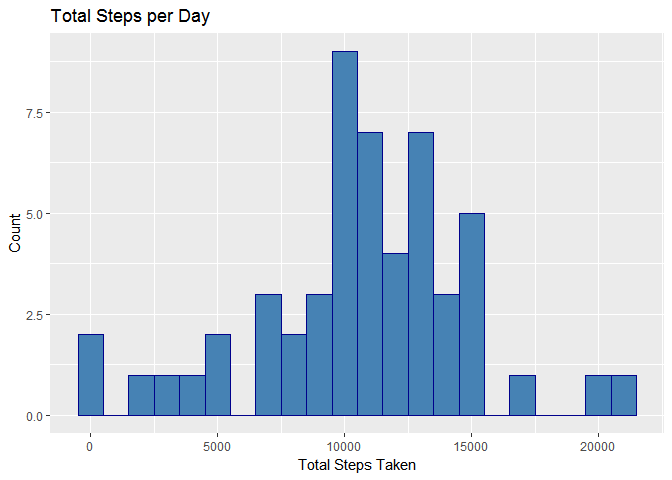
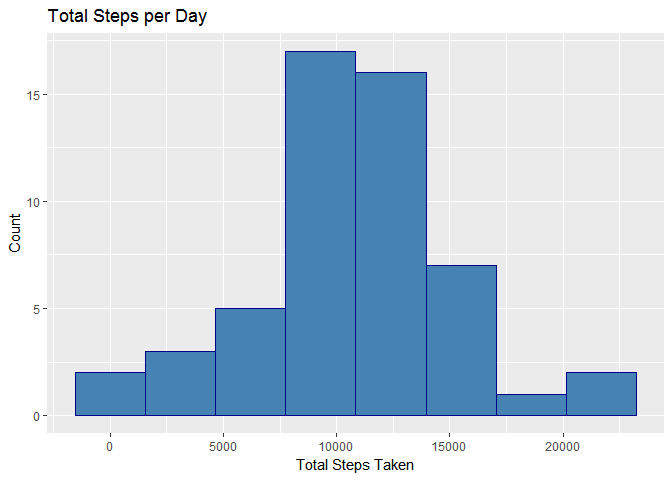
Update to Histograms and printing function
Changed the number of bins and bin size of histograms, using a different
method which calculates it based on the range of values.
Created a printTable function in order to centralize most of the
functionality.

diff --git a/PA1_template.html b/PA1_template.html
@@ -127,7 +127,7 @@ $(document).ready(function () {
 
 <div id="purpose" class="section level2">
 <h2>Purpose</h2>
-<p>To create a literate program that will document the method used for data processing, analysis and visualization, provided in a form through which the research can be easily understood and reproduced.</p>
+<p>To create a literate program that will document the methods used for data processing, analysis and visualization, provided in a form through which the research can be easily understood and reproduced.</p>
 </div>
 <div id="prepare-environment" class="section level2">
 <h2>Prepare environment</h2>
@@ -156,7 +156,7 @@ total_steps_per_day &lt;- activity_data_no_NA %&gt;%
     group_by(date) %&gt;%
     summarise(totalSteps = sum(steps))</code></pre>
 <!-- html table generated in R 3.3.2 by xtable 1.8-2 package -->
-<!-- Mon Feb 13 02:48:00 2017 -->
+<!-- Mon Feb 13 22:55:16 2017 -->
 <table border="1">
 <tr>
 <th>
@@ -279,15 +279,19 @@ totalSteps
 </td>
 </tr>
 </table>
-<p>Now to plot the histogram of the <strong>Total Steps per Day (totalSteps)</strong> to visualize the distribution.</p>
-<pre class="r"><code>plot_histogram_total_steps_per_day &lt;- ggplot(data = total_steps_per_day, aes(x = totalSteps)) +
-    geom_histogram(stat = &quot;bin&quot;, bins = 25, binwidth = 1000, color = &quot;darkblue&quot;, fill = &quot;steelblue&quot;) +
+<p>Now to plot the histogram of the <strong>Total Steps per Day (totalSteps)</strong> to visualize the distribution. To determine the number of bins which may be optimal for analysis, I’ve used the square root of the range of the variable, applying the ceiling method of rounding in order to get a whole number that is larger than the variable’s max value. The bin-size may have required a custom function or locating an existing package, however since we only had one Histogram I chose to divide the max value by the number of bins previously calculated and the result was rounded up to the next hundred, resulting in a bin width = 3,100.</p>
+<pre class="r"><code>numBins &lt;- 1 + ceiling(sqrt(range(total_steps_per_day$totalSteps)))
+binSize &lt;- 3100
+
+plot_histogram_total_steps_per_day &lt;- ggplot(data = total_steps_per_day, aes(x = totalSteps)) +
+    geom_histogram(stat = &quot;bin&quot;, bins = numBins, binwidth = binSize, color = &quot;darkblue&quot;, fill = &quot;steelblue&quot;) +
     labs(title = &quot;Total Steps per Day&quot;, x = &quot;Total Steps Taken&quot;, y = &quot;Count&quot;) +
     ggsave(filename = &quot;figures/histogram_total_steps_per_day.png&quot;, width = 5, height = 3)
 
 plot_histogram_total_steps_per_day</code></pre>
[1 lines of base64/hex data omitted]
-<p>To check the data for outliers which may cause skewing we need to calculate the Mean and Median values. First, calculate the <strong>Mean</strong> value of <strong>totalSteps</strong>.</p>
[1 lines of base64/hex data omitted]
+<p>Although we can visually identify that the bins with the largest number of values are in the center of the graph, those 2 bins can account for up to 6,200 values so it is highly unlikely that we can guess the exact value at the center of the distribution. We can, however, determine the central value by calculating the measures of central tendency. The Mean and Median values are measures of central tendency and comparing the two would allow us to gauge the strength or weakness of the central tendency for this distribution. This being the latter case, the comparison of Mean and Median values would provide us with the size and direction of skew. As the skew increases, so does variablity in the data set and the chance of finding a valid center, preventing it from being a symmetrical distribution.</p>
+<p>First, calculate the <strong>Mean</strong> value of <strong>totalSteps</strong>.</p>
 <pre class="r"><code>meanTotalSteps &lt;- mean(total_steps_per_day$totalSteps)
 print(paste(&quot;Mean total steps per day:&quot;, meanTotalSteps))</code></pre>
 <pre><code>## [1] &quot;Mean total steps per day: 10766.1886792453&quot;</code></pre>
@@ -296,11 +300,11 @@ print(paste(&quot;Mean total steps per day:&quot;, meanTotalSteps))</code></pre>
 midTotalSteps &lt;- median(total_steps_per_day$totalSteps)
 print(paste(&quot;Median total steps per day:&quot;, midTotalSteps))</code></pre>
 <pre><code>## [1] &quot;Median total steps per day: 10765&quot;</code></pre>
-<p><em>There is a very slight difference between the Mean and Median which represents a bit of a skew.</em></p>
+<p><em>There is a very slight difference between the Mean and Median which represents a slight skew.</em></p>
 </div>
 <div id="question-2-what-is-the-average-daily-activity-pattern" class="section level2">
 <h2>Question 2: What is the average daily activity pattern?</h2>
-<p>Make a data.frame for mean steps taken per interval across all days</p>
+<p>Create a subset from the original dataset, minus the incomplete observations, and group the subset by interval, calculating the average of the number of steps in each interval. The result is a dataset with interval and meanSteps, across all date values. Date is not a grouping in this set, it is ignored in order to focus on the relationship of the interval and average of the number of steps.</p>
 <pre class="r"><code>mean_steps_per_interval_all_days &lt;- activity_data_no_NA %&gt;%
     select(interval, steps) %&gt;%
     group_by(interval) %&gt;%
@@ -348,7 +352,7 @@ kable(summary(mean_steps_per_interval_all_days), caption = &quot;total_steps_per
 </tr>
 </tbody>
 </table>
-<p>Plot meanSteps by interval in time series plot</p>
+<p>Create the timeseries plot using the interval as the x value and the meanSteps as the continuous y value.</p>
 <pre class="r"><code>plot_time_series_mean_steps_per_interval &lt;- ggplot(data = mean_steps_per_interval_all_days, aes(interval, meanSteps)) +
     geom_step(color = 'blue', lwd = 0.25) +
     scale_x_continuous(breaks = c(seq(0,2500,250)),minor_breaks = c(seq(0,2500,50))) +
@@ -394,13 +398,16 @@ print(paste(&quot;Number of Observations missing data:&quot;, count(missing_acti
     group_by(date) %&gt;%
     summarise(totalSteps = sum(steps))</code></pre>
 <p>Plot histogram of steps per day.</p>
-<pre class="r"><code>plot_histogram_revised_total_steps_per_day &lt;- ggplot(data = revised_total_steps_per_day, aes(totalSteps)) +
-    geom_histogram(stat = &quot;bin&quot;, bins = 25, binwidth = 1000, color = &quot;darkred&quot;, fill = &quot;red&quot;) +
+<pre class="r"><code>numBins &lt;- 1 + ceiling(sqrt(range(revised_total_steps_per_day$totalSteps)))
+binSize &lt;- 3100
+
+plot_histogram_revised_total_steps_per_day &lt;- ggplot(data = revised_total_steps_per_day, aes(totalSteps)) +
+    geom_histogram(stat = &quot;bin&quot;, bins = numBins, binwidth = binSize, color = &quot;darkred&quot;, fill = &quot;red&quot;) +
     labs(title = &quot;Revised Total Steps per Day&quot;, x = &quot;Total Steps Taken&quot;, y = &quot;Count&quot;) +
     ggsave(filename = &quot;figures/histogram_revised_total_steps_per_day.png&quot;, width = 5, height = 3)
 
 plot_histogram_revised_total_steps_per_day</code></pre>
[2 lines of base64/hex data omitted]
 <p>calculate the mean value of total steps</p>
 <pre class="r"><code>revisedMeanTotalSteps &lt;- mean(revised_total_steps_per_day$totalSteps)
 print(paste(&quot;Revised Mean total steps per day:&quot;, revisedMeanTotalSteps))</code></pre>

diff --git a/PA1_template.md b/PA1_template.md
@@ -5,7 +5,7 @@ Ray Lugo, Jr.
 
 ##Purpose
 
-To create a literate program that will document the method used for data processing, analysis and visualization, provided in a form through which the research can be easily understood and reproduced.
+To create a literate program that will document the methods used for data processing, analysis and visualization, provided in a form through which the research can be easily understood and reproduced.
 
 ##Prepare environment
 ###Load libraries.
@@ -18,6 +18,8 @@ library(lattice)
 library(knitr)
 library(xtable)
 ```
+
+
 
 ###Load data.
 The data was loaded directly from ZIP archive using Readr's read_csv function.  This simplified data loading and saves disk space by eliminating the need to extract the data file.
@@ -42,7 +44,7 @@ total_steps_per_day <- activity_data_no_NA %>%
 ```
 
 <!-- html table generated in R 3.3.2 by xtable 1.8-2 package -->
-<!-- Mon Feb 13 02:48:00 2017 -->
+<!-- Mon Feb 13 22:55:16 2017 -->
 <table border=1>
 <tr> <th>  </th> <th> date </th> <th> totalSteps </th>  </tr>
   <tr> <td align="right"> 1 </td> <td> 2012-10-02 </td> <td align="right"> 126 </td> </tr>
@@ -57,21 +59,28 @@ total_steps_per_day <- activity_data_no_NA %>%
   <tr> <td align="right"> 10 </td> <td> 2012-10-12 </td> <td align="right"> 17382 </td> </tr>
    </table>
 
-Now to plot the histogram of the **Total Steps per Day (totalSteps)** to visualize the distribution.
+
+
+Now to plot the histogram of the **Total Steps per Day (totalSteps)** to visualize the distribution.  To determine the number of bins which may be optimal for analysis, I've used the square root of the range of the variable, applying the ceiling method of rounding in order to get a whole number that is larger than the variable's max value.
+The bin-size may have required a custom function or locating an existing package, however since we only had one Histogram I chose to divide the max value by the number of bins previously calculated and the result was rounded up to the next hundred, resulting in a bin width = 3,100.
 
 
 ```r
+numBins <- 1 + ceiling(sqrt(range(total_steps_per_day$totalSteps)))
+binSize <- 3100
+
 plot_histogram_total_steps_per_day <- ggplot(data = total_steps_per_day, aes(x = totalSteps)) +
-    geom_histogram(stat = "bin", bins = 25, binwidth = 1000, color = "darkblue", fill = "steelblue") +
+    geom_histogram(stat = "bin", bins = numBins, binwidth = binSize, color = "darkblue", fill = "steelblue") +
     labs(title = "Total Steps per Day", x = "Total Steps Taken", y = "Count") +
     ggsave(filename = "figures/histogram_total_steps_per_day.png", width = 5, height = 3)
 
 plot_histogram_total_steps_per_day
 ```
 
-![](PA1_template_files/figure-html/unnamed-chunk-5-1.png)<!-- -->
+![](PA1_template_files/figure-html/unnamed-chunk-6-1.png)<!-- -->
 
-To check the data for outliers which may cause skewing we need to calculate the Mean and Median values.
+Although we can visually identify that the bins with the largest number of values are in the center of the graph, those 2 bins can account for up to 6,200 values so it is highly unlikely that we can guess the exact value at the center of the distribution. We can, however, determine the central value by calculating the measures of central tendency.  The Mean and Median values are measures of central tendency and comparing the two would allow us to gauge the strength or weakness of the central tendency for this distribution. This being the latter case, the comparison of Mean and Median values would provide us with the size and direction of skew.  As the skew increases, so does variablity in the data set and the chance of finding a valid center, preventing it from being a symmetrical distribution.
+
 First, calculate the **Mean** value of **totalSteps**.
 
 
@@ -97,10 +106,11 @@ print(paste("Median total steps per day:", midTotalSteps))
 ## [1] "Median total steps per day: 10765"
 ```
 
-*There is a very slight difference between the Mean and Median which represents a bit of a skew.*
+*There is a very slight difference between the Mean and Median which represents a slight skew.*
 
 ##Question 2: What is the average daily activity pattern?
-Make a data.frame for mean steps taken per interval across all days
+
+Create a subset from the original dataset, minus the incomplete observations, and group the subset by interval, calculating the average of the number of steps in each interval.  The result is  a dataset with interval and meanSteps, across all date values. Date is not a grouping in this set, it is ignored in order to focus on the relationship of the interval and average of the number of steps.
 
 
 ```r
@@ -124,7 +134,7 @@ Table: total_steps_per_day
      3rd Qu.:1766.2   3rd Qu.: 52.835 
      Max.   :2355.0   Max.   :206.170 
 
-Plot meanSteps by interval in time series plot
+Create the timeseries plot using the interval as the x value and the meanSteps as the continuous y value.
 
 
 ```r
@@ -138,7 +148,7 @@ plot_time_series_mean_steps_per_interval <- ggplot(data = mean_steps_per_interva
 plot_time_series_mean_steps_per_interval
 ```
 
-![](PA1_template_files/figure-html/unnamed-chunk-9-1.png)<!-- -->
+![](PA1_template_files/figure-html/unnamed-chunk-10-1.png)<!-- -->
 
 Find the interval with the max average steps per day
 
@@ -170,7 +180,7 @@ plot_time_series_interval_max_steps = plot_time_series_mean_steps_per_interval +
 plot_time_series_interval_max_steps
 ```
 
-![](PA1_template_files/figure-html/unnamed-chunk-11-1.png)<!-- -->
+![](PA1_template_files/figure-html/unnamed-chunk-12-1.png)<!-- -->
 
 ##Question 3: Imputing missing values
 Calculate and report the number of missing values
@@ -214,15 +224,18 @@ Plot histogram of steps per day.
 
 
 ```r
+numBins <- 1 + ceiling(sqrt(range(revised_total_steps_per_day$totalSteps)))
+binSize <- 3100
+
 plot_histogram_revised_total_steps_per_day <- ggplot(data = revised_total_steps_per_day, aes(totalSteps)) +
-    geom_histogram(stat = "bin", bins = 25, binwidth = 1000, color = "darkred", fill = "red") +
+    geom_histogram(stat = "bin", bins = numBins, binwidth = binSize, color = "darkred", fill = "red") +
     labs(title = "Revised Total Steps per Day", x = "Total Steps Taken", y = "Count") +
     ggsave(filename = "figures/histogram_revised_total_steps_per_day.png", width = 5, height = 3)
 
 plot_histogram_revised_total_steps_per_day
 ```
 
-![](PA1_template_files/figure-html/unnamed-chunk-16-1.png)<!-- -->
+![](PA1_template_files/figure-html/unnamed-chunk-17-1.png)<!-- -->
 
 calculate the mean value of total steps
 
@@ -317,4 +330,4 @@ time_series_mean_steps_interval_dayType <-  xyplot(meanSteps ~ interval|dayType,
 time_series_mean_steps_interval_dayType
 ```
 
-![](PA1_template_files/figure-html/unnamed-chunk-23-1.png)<!-- -->
+![](PA1_template_files/figure-html/unnamed-chunk-24-1.png)<!-- -->
